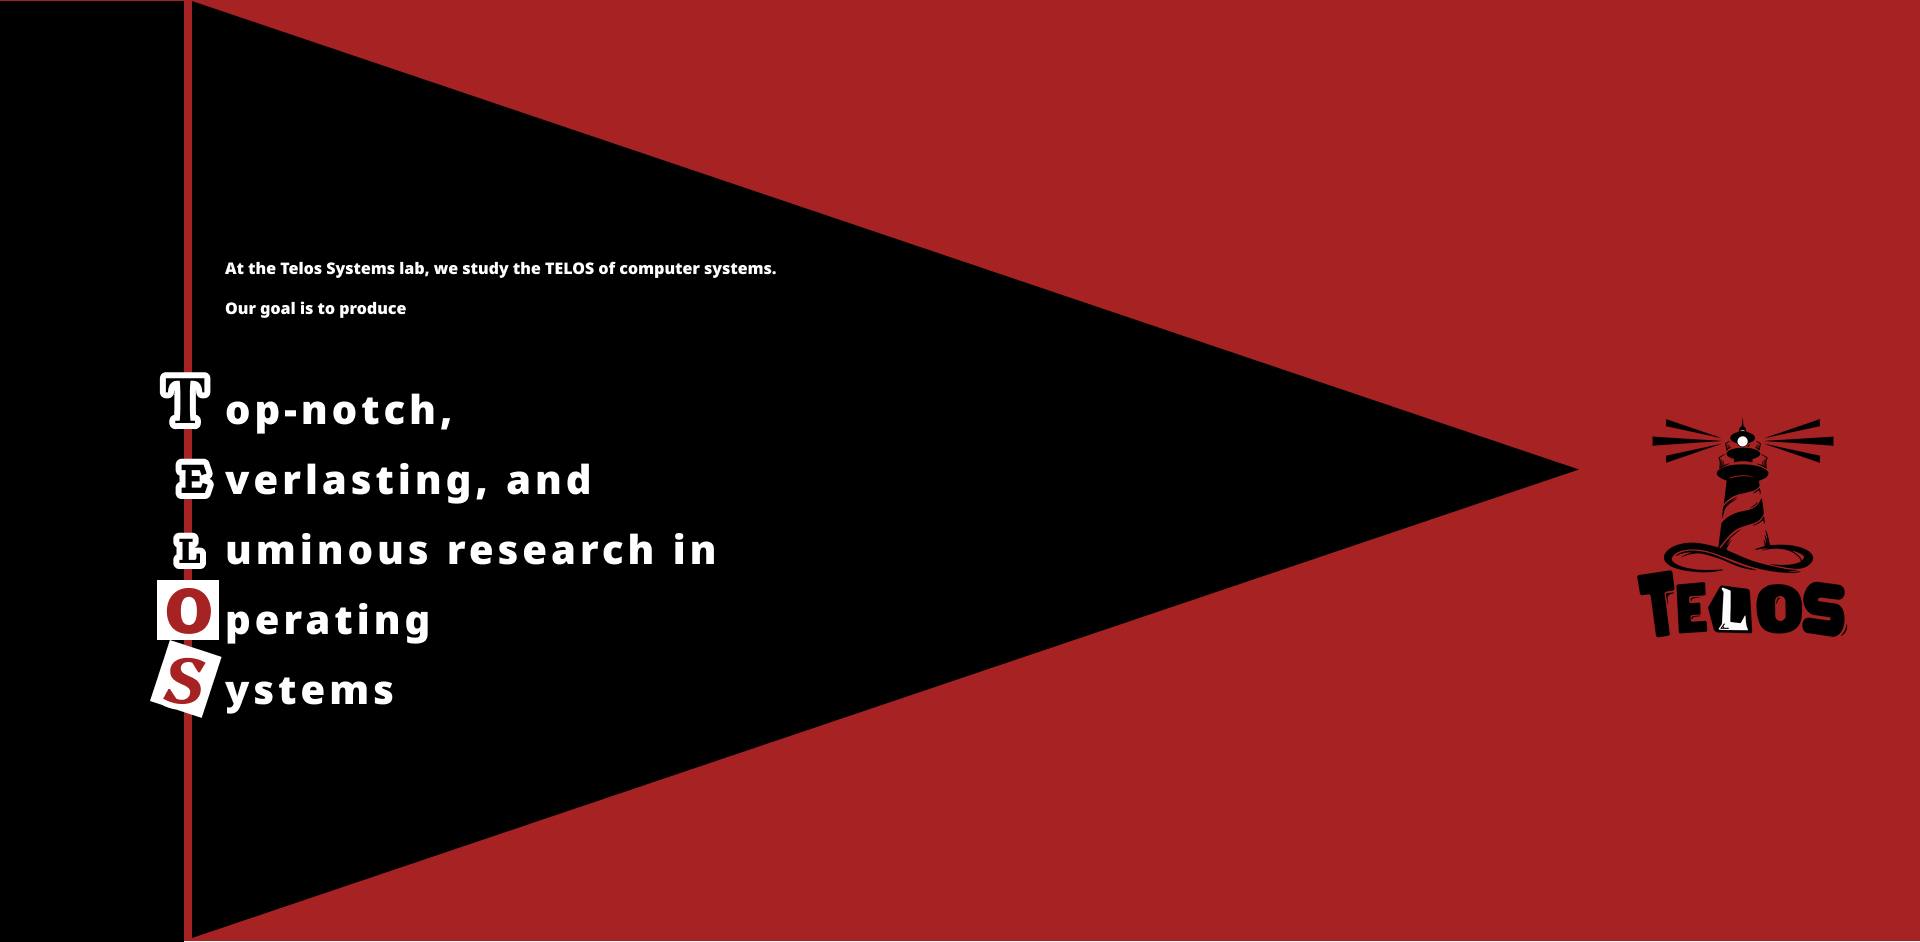
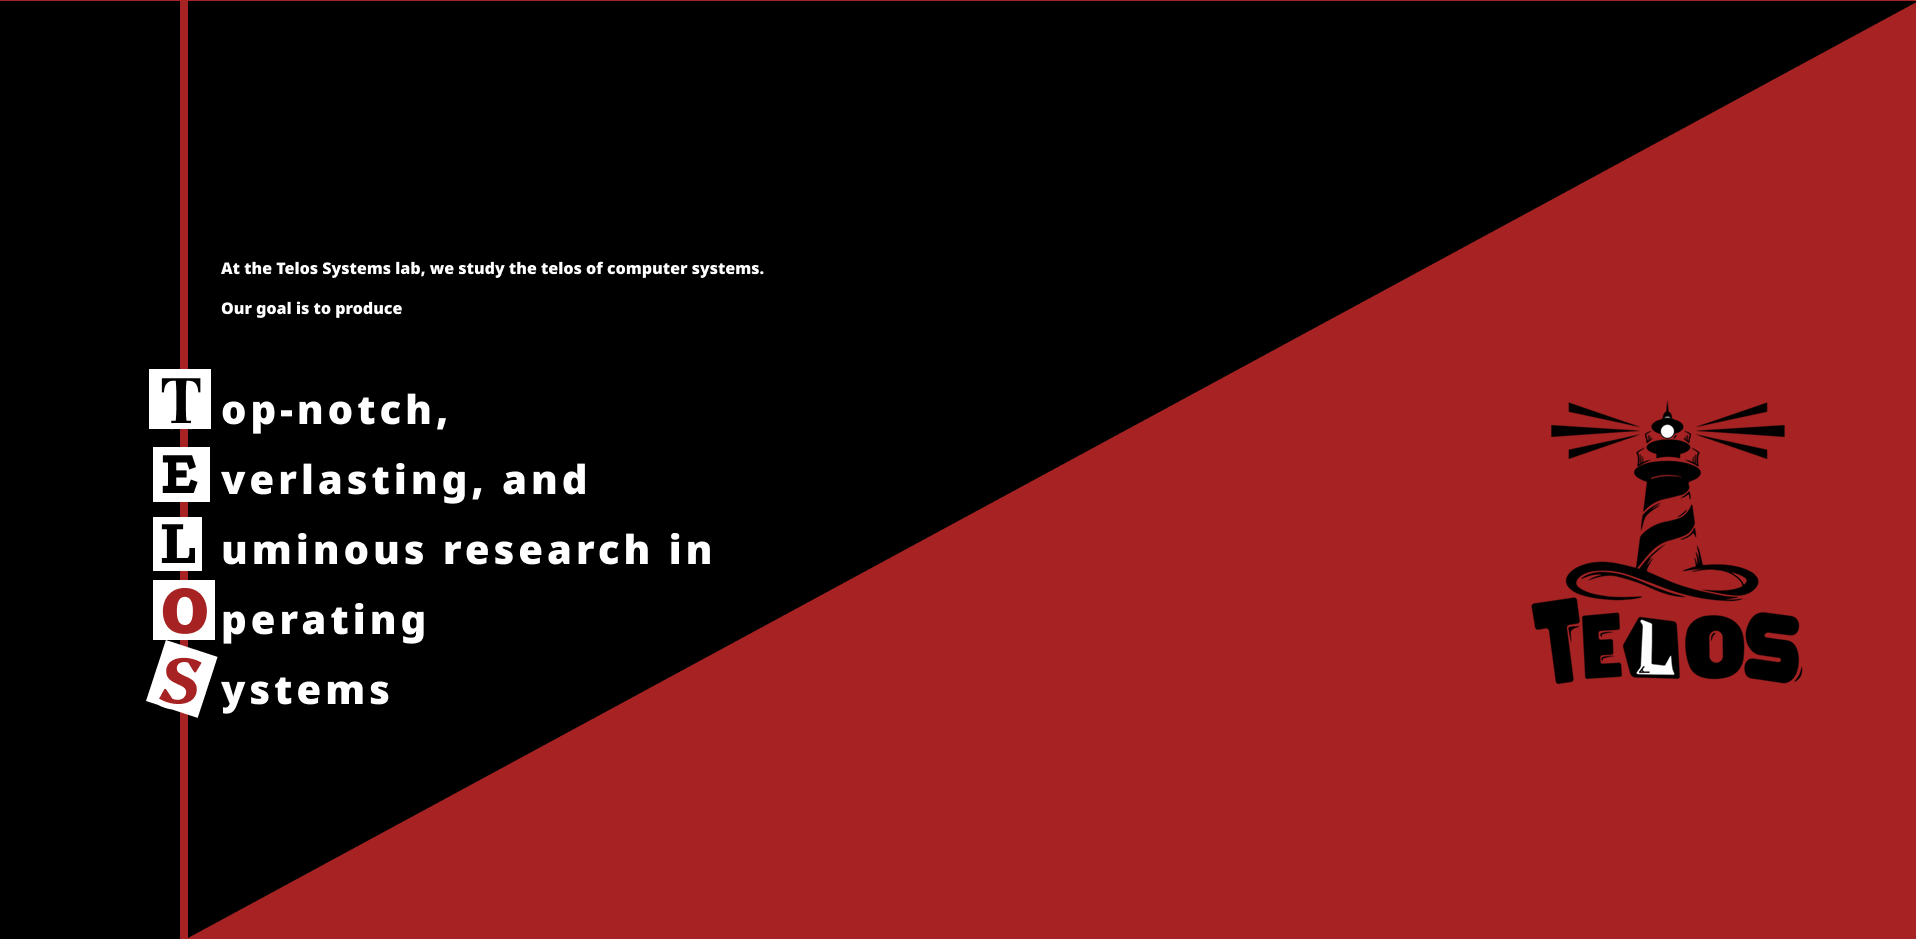
update; 0604 feedback

Changed region(s): [[0.0616, 0.0, 1.0, 1.0]]

diff --git a/pages/interrupts.html b/pages/interrupts.html
@@ -17,9 +17,7 @@ permalink: /interrupts/
     border-radius: 6px;
     transition: background 0.2s;
   }
-  .interrupts-btn-github { background: #24292e; }
-  .interrupts-btn-github:hover { background: #A72323; }
-  .interrupts-btn-wechat { background: #07C160; }
+.interrupts-btn-wechat { background: #07C160; }
   .interrupts-btn-wechat:hover { background: #A72323; }
 </style>
 
@@ -27,18 +25,13 @@ permalink: /interrupts/
   <section style="width:100%; height:260px; overflow:hidden; position:relative;">
     <img src="/assets/img/interrupts/graduation-dinner-2026.jpg" alt="Graduation Lunch for Zehua and Chuandong" style="width:100%; height:100%; object-fit:cover; object-position:center 69%; display:block;">
     <div style="position:absolute; top:0; left:0; width:100%; height:100%; background-image:linear-gradient(0deg, rgba(20,20,20,0.85) 0%, rgba(0,0,0,0.15) 100%);"></div>
-    <div style="position:absolute; bottom:1.2rem; left:0; width:100%; display:flex; justify-content:center;">
-      <a href="https://mp.weixin.qq.com/mp/profile_ext?action=home&__biz=MzYyMjUyMDc3Nw==" target="_blank" class="interrupts-btn interrupts-btn-wechat">
-        <i class="fab fa-weixin" style="font-size:1.1rem;"></i> Check more news in WeChat
-      </a>
-    </div>
   </section>
 
   <div style="display: flex; align-items: center; flex-wrap: wrap; gap: 1rem; padding: 0.75rem 1.5rem 0.5rem; justify-content: space-between;">
-    <h1 class="title-category" style="margin: 0; flex-shrink: 0;">/Interrupts</h1>
+    <h1 class="title-category" style="margin: 0; flex-shrink: 0;">Interrupts</h1>
     <div style="display: flex; gap: 0.75rem;">
-      <a href="https://github.com/TELOS-syslab" target="_blank" class="interrupts-btn interrupts-btn-github">
-        <i class="fab fa-github" style="font-size: 1.1rem;"></i> Research Artifacts
+      <a href="https://mp.weixin.qq.com/mp/profile_ext?action=home&__biz=MzYyMjUyMDc3Nw==" target="_blank" class="interrupts-btn interrupts-btn-wechat">
+        <i class="fab fa-weixin" style="font-size:1.1rem;"></i> Check more news in WeChat
       </a>
     </div>
   </div>

diff --git a/_sass/_header.scss b/_sass/_header.scss
@@ -115,18 +115,8 @@ body.main-page {
 
 body.light:not(.main-page) {
   .bar-header {
-    box-shadow: 0px 0px 1px 1px rgba(0, 0, 0, 0.1);
-    background-color: rgba(255, 255, 255, 0.95);
-
-    .icon-search,
-    .icon-menu {
-      fill: $primaryDark;
-    }
-
-    .logo a,
-    .version {
-      color: $primaryDark;
-    }
+    box-shadow: 0px 0px 1px 1px rgba(0, 0, 0, 0.3);
+    background-color: rgba(0, 0, 0, 0.95);
   }
 }
 

diff --git a/pages/publications.html b/pages/publications.html
@@ -95,8 +95,18 @@ permalink: /publications/
 .pub-links a:hover, .abstract-toggle:hover { border-color: #A72323; color: #A72323; }
 </style>
 
+<style>
+.pub-artifact-btn { display: inline-flex; align-items: center; gap: 0.5rem; color: #fff !important; text-decoration: none; font-size: 0.9rem; font-weight: 600; padding: 0.45rem 1rem; border-radius: 6px; background: #24292e; transition: background 0.2s; }
+.pub-artifact-btn:hover { background: #A72323; }
+</style>
+
 <div class="pub-wrapper">
 <h1>Publications</h1>
+<div style="text-align: center; margin-top: -1.5rem; margin-bottom: 2rem;">
+  <a href="https://github.com/TELOS-syslab" target="_blank" class="pub-artifact-btn">
+    <i class="fab fa-github" style="font-size:1.1rem;"></i> Research Artifacts
+  </a>
+</div>
 
 {% assign sorted_pubs = site.data.publications | sort: "year" | reverse %}
 {% assign years = sorted_pubs | map: "year" | uniq %}